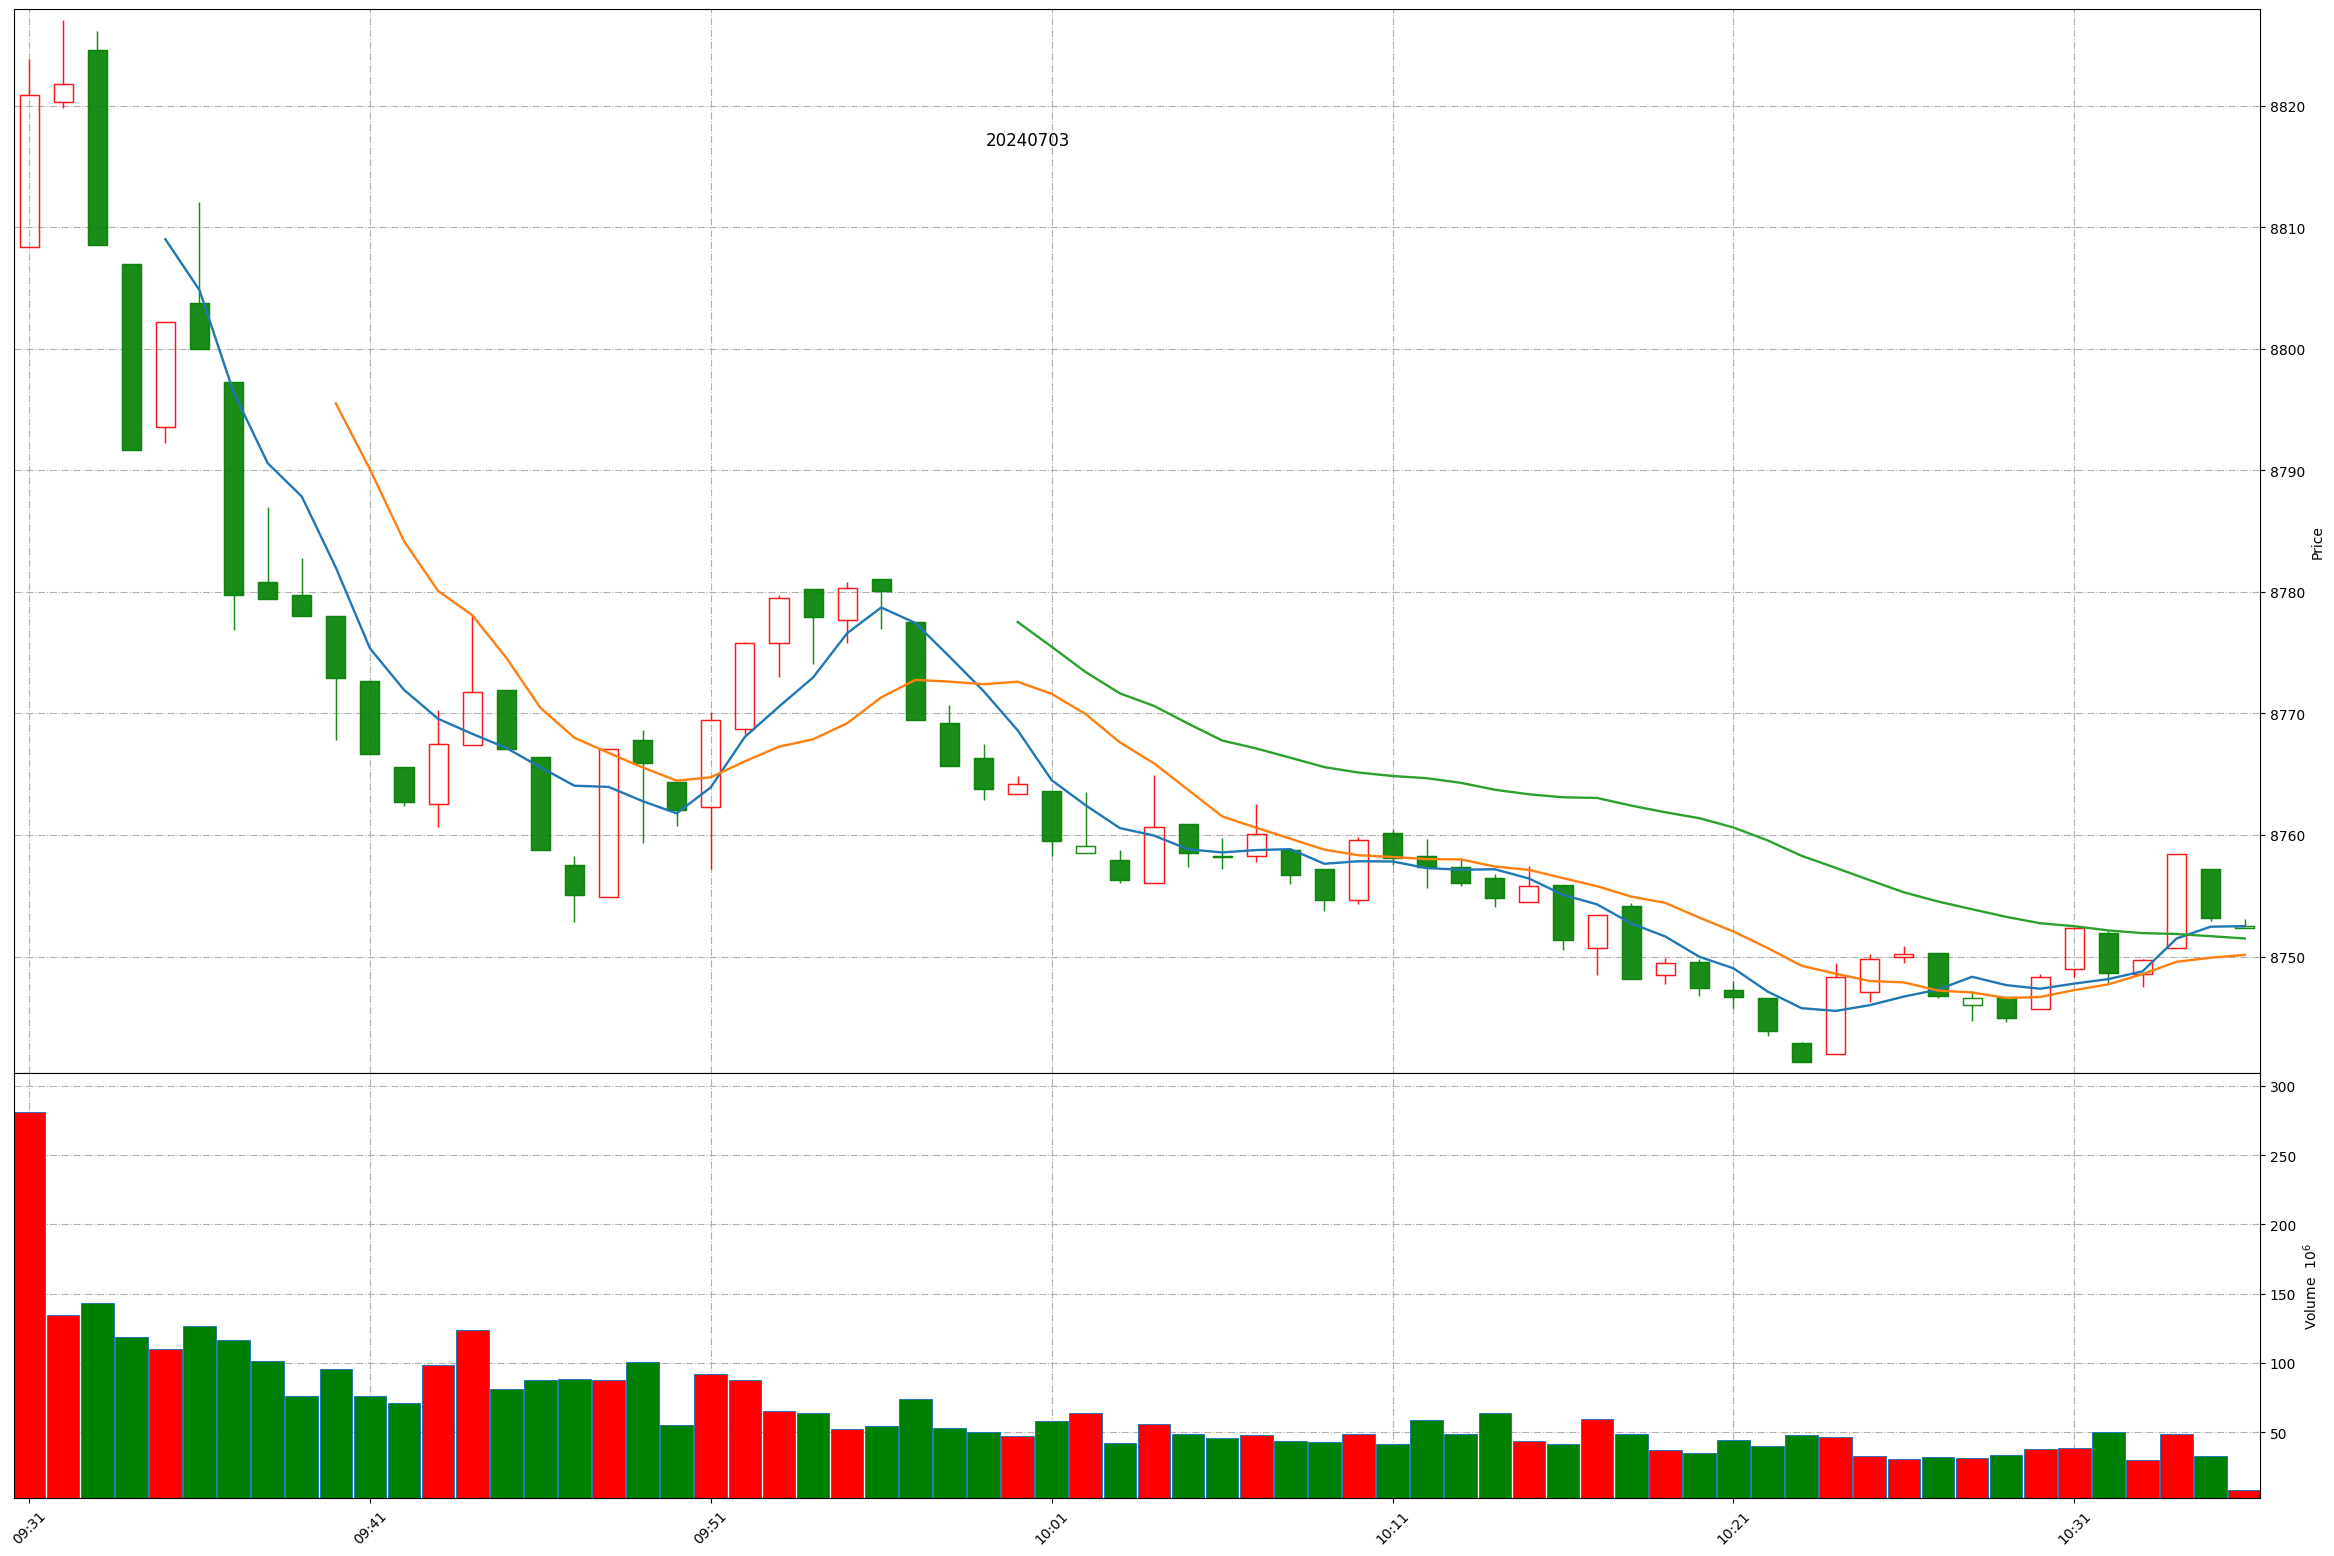
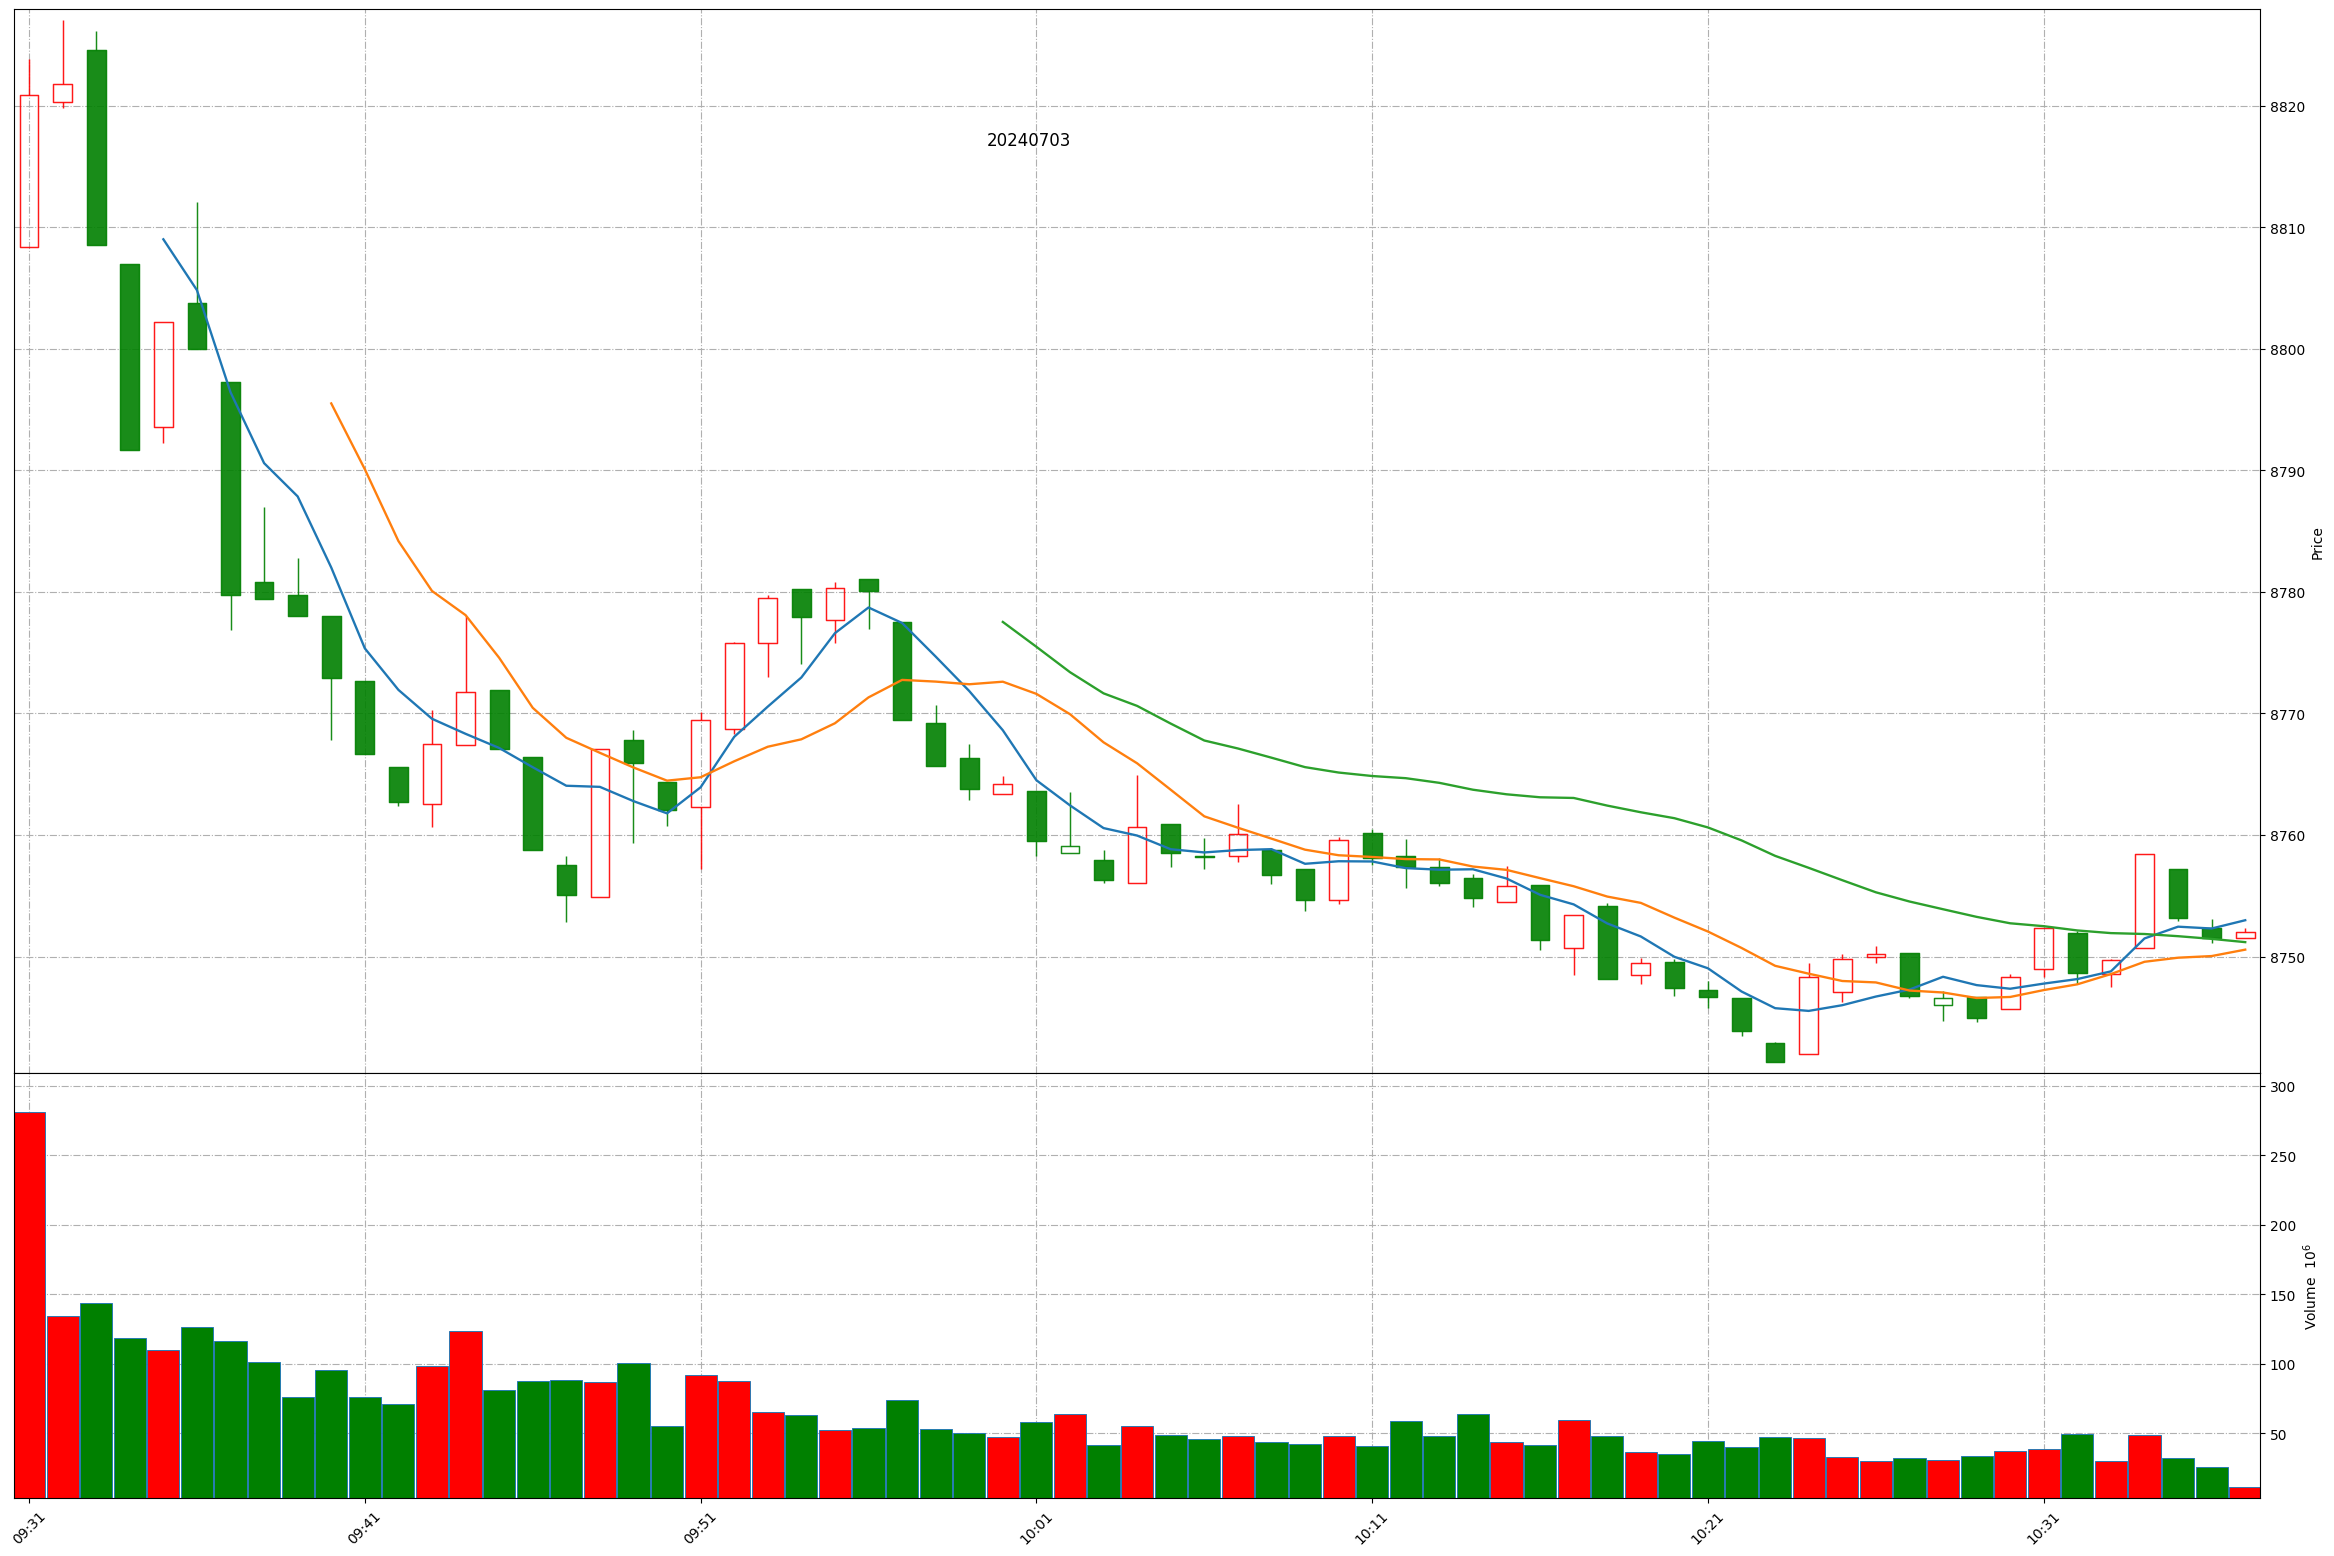
Github action update at 2024-07-03 10:36:49.

diff --git a/README.md b/README.md
@@ -1,11 +1,11 @@
 
 # Daily-A-share-market-quotes 每日 A 股指数（5min 更新）- 20240703
 
-### 上证指数 20240703 10:35
+### 上证指数 20240703 10:36
 ![](./fig/2024/7/20240703-sh000001.png)
 
-### 深证成指 20240703 10:35
+### 深证成指 20240703 10:36
 ![](./fig/2024/7/20240703-sz399001.png)
 
-### 北证50 20240703 10:35
+### 北证50 20240703 10:36
 ![](./fig/2024/7/20240703-bj899050.png)
